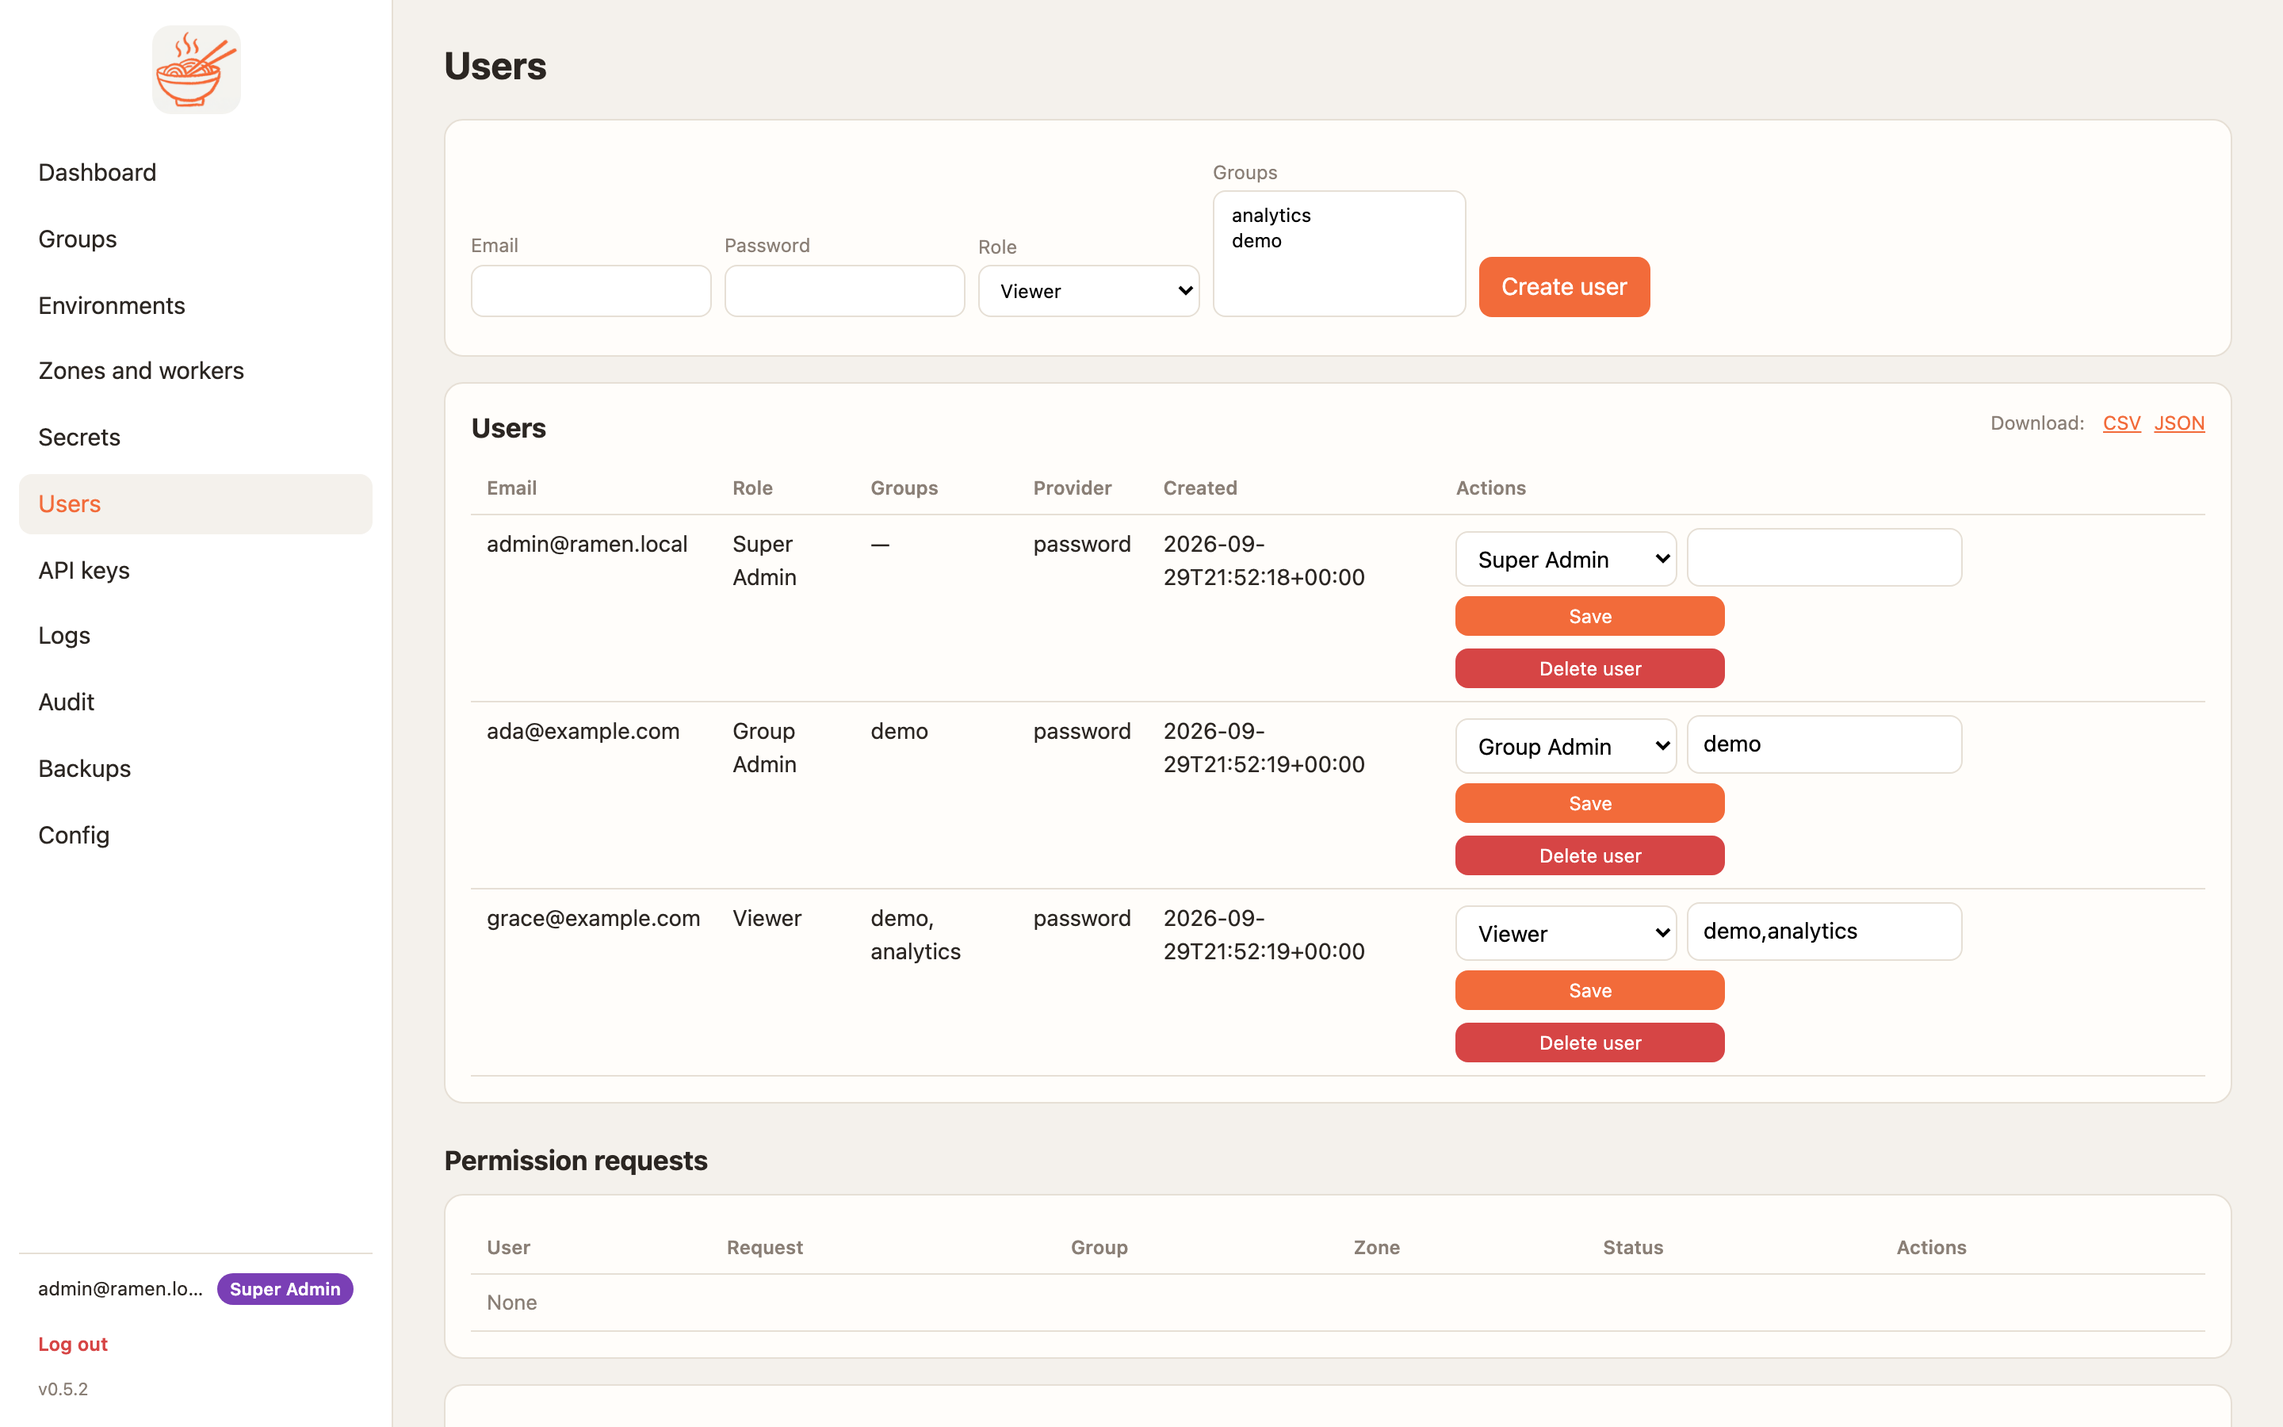
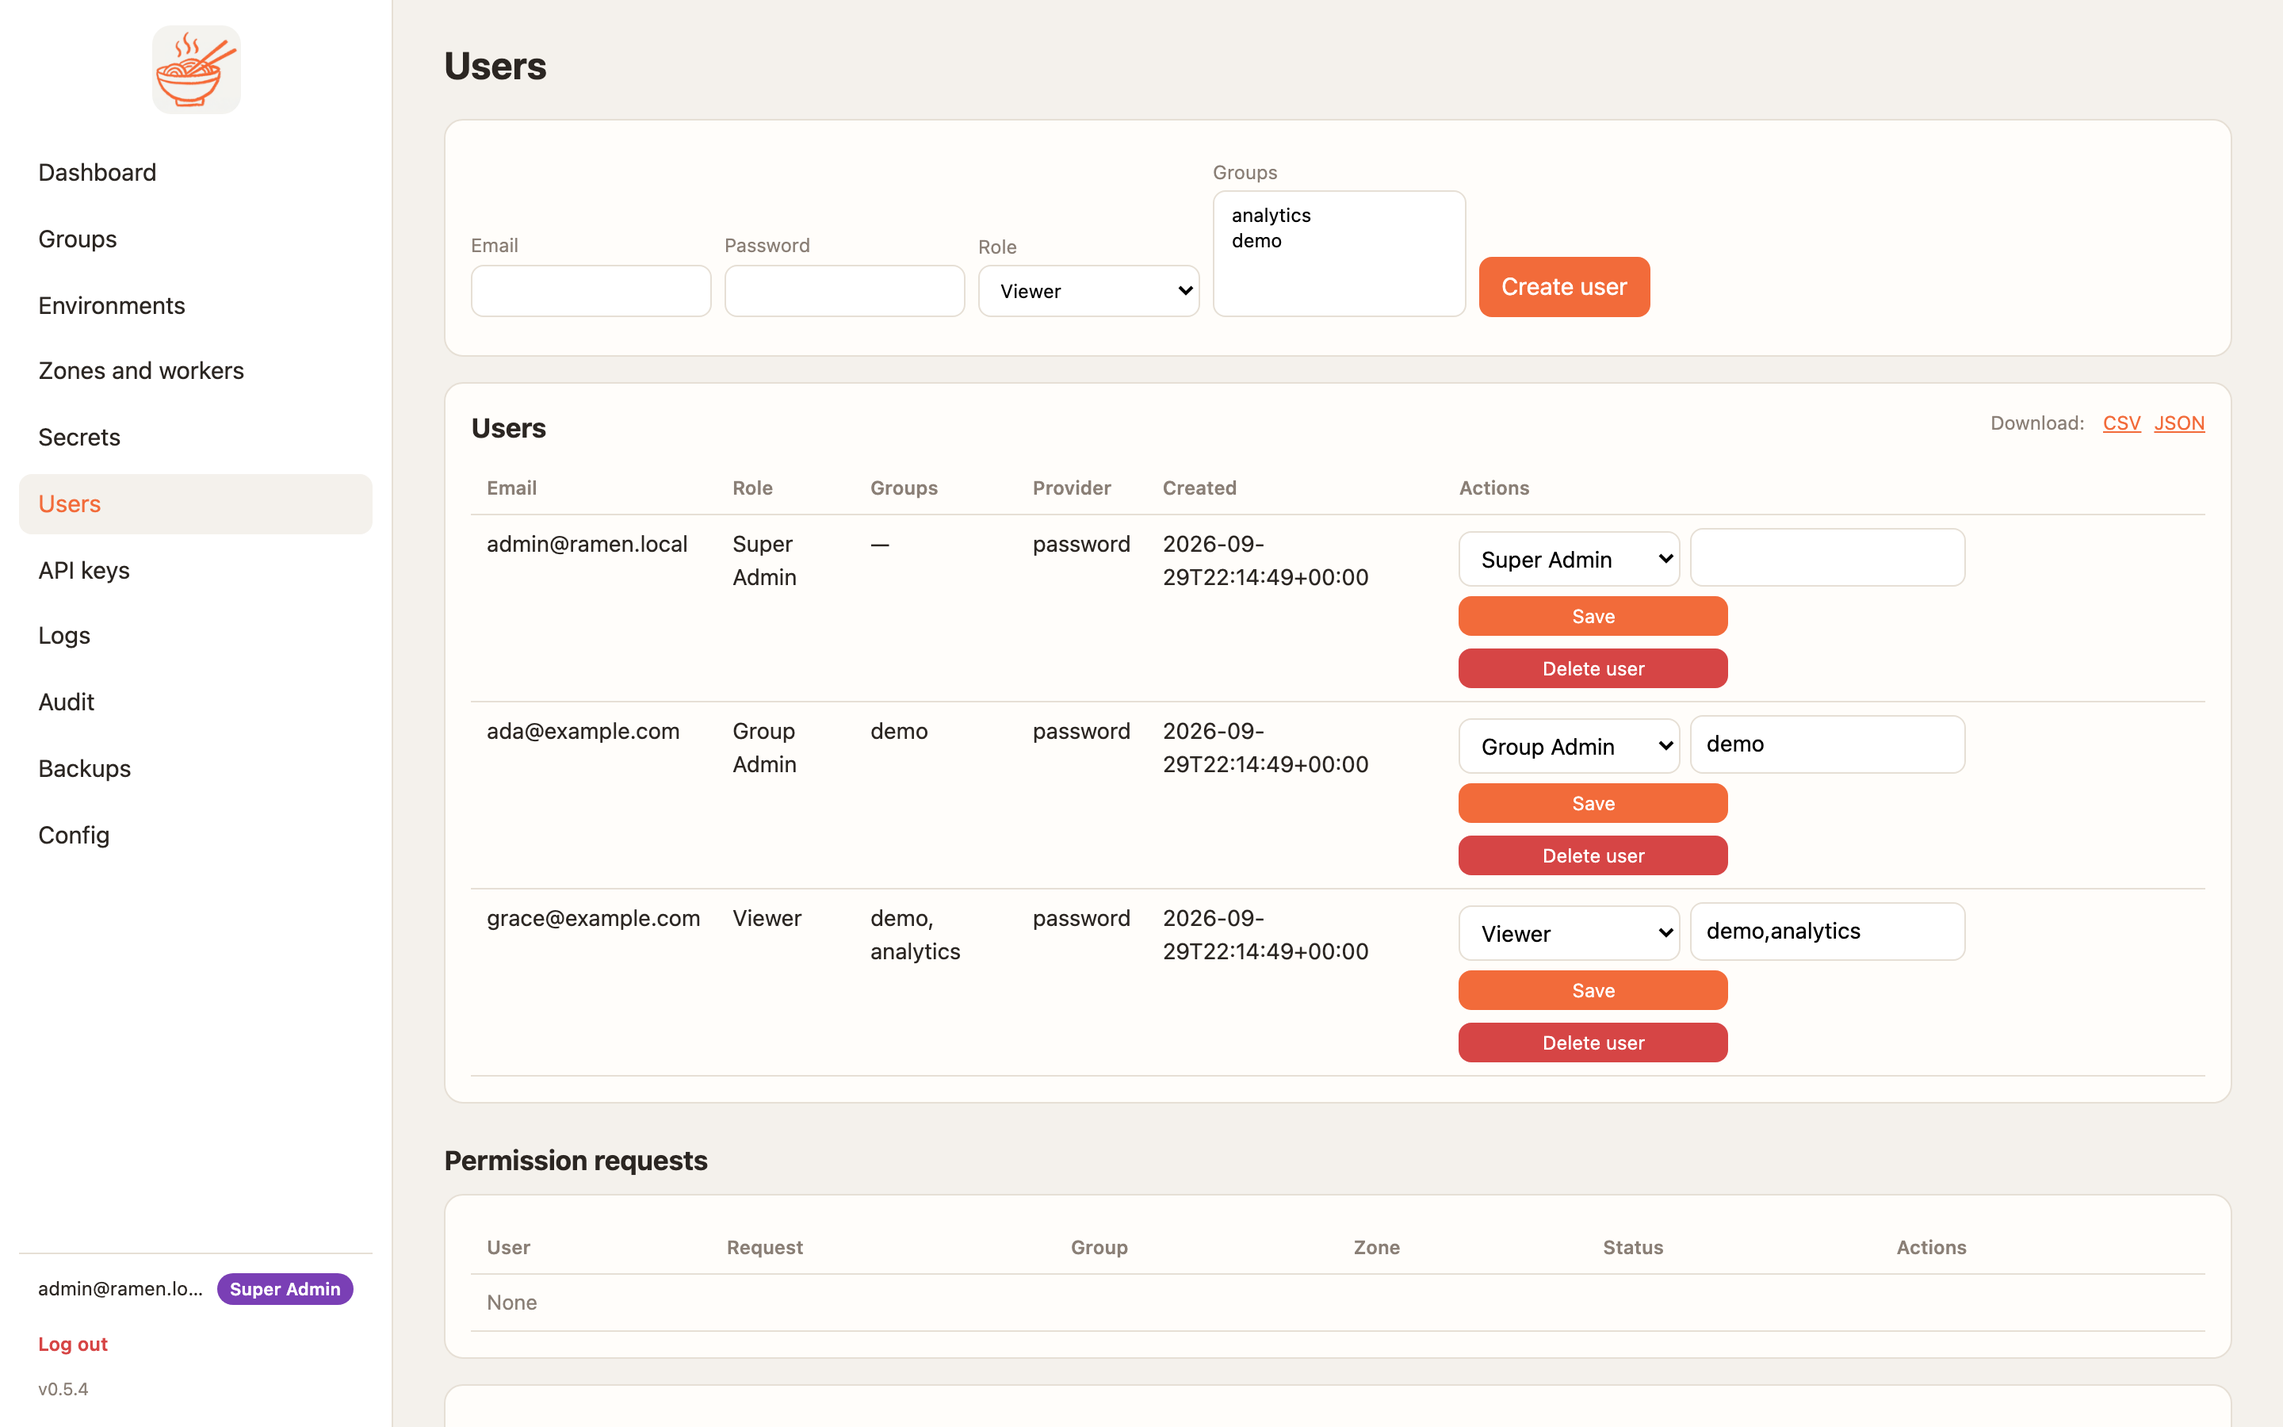
0.5.4: honest deploy pictures, aligned environment buttons, docs brought current
The docs' group and deploy-job screenshots showed a failed GitHub deploy: the rig deployed from GitHub on a laptop
with a stale keychain token. It now clones a local git copy of the demo group, so the seeded deploy ends ok with
packages per zone. Group page environment rows use the equal-width row-actions pattern for all three buttons
(test pinned). Architecture page at 0.5.x; every README path, external link and docs link checked; shots
re-captured (ui_contract 0.5.4).

diff --git a/console/src/ramen_console/templates/group.html b/console/src/ramen_console/templates/group.html
@@ -10,10 +10,10 @@
 <label>Name<input name="name" required></label><label>Ref<input name="ref" placeholder="{{ group.ref }}"></label><label>Zones (comma)<input name="zones" placeholder="{{ zones|map(attribute='id')|join(',') }}"></label><button>Add environment</button></form>{% endif %}
 <div class="card"><table><tr><th>Environment</th><th>Ref</th><th>Zones</th><th>Verbose</th><th>Last deploy</th><th></th></tr>
 {% for e in envs %}<tr><td>{{ e.name }}</td><td>{{ e.ref }}</td><td>{{ e.zones|join(', ') }}</td>
-<td>{% if can_admin %}<button class="sm ghost" hx-post="/api/v1/groups/{{ group.id }}/environments/{{ e.name }}/verbose" hx-ext="json" hx-vals='{"verbose": {{ 'false' if e.verbose else 'true' }}}' hx-swap="none">{{ 'Turn off' if e.verbose else 'Turn on' }}</button>{% else %}{{ 'On' if e.verbose else 'Off' }}{% endif %}</td>
+<td>{% if can_admin %}<div class="row-actions"><button class="act ghost" hx-post="/api/v1/groups/{{ group.id }}/environments/{{ e.name }}/verbose" hx-ext="json" hx-vals='{"verbose": {{ 'false' if e.verbose else 'true' }}}' hx-swap="none">{{ 'Verbose: off' if e.verbose else 'Verbose: on' }}</button></div>{% else %}{{ 'On' if e.verbose else 'Off' }}{% endif %}</td>
 <td>{% if e.last_deploy %}<span class="badge {{ e.last_deploy.status }}">{{ e.last_deploy.status }}</span> {{ e.last_deploy.at }}{% if e.last_deploy.error %}<div class="err">{{ e.last_deploy.error }}</div>{% endif %}{% endif %}</td>
-<td>{% if can_admin %}<button class="sm" hx-post="/api/v1/groups/{{ group.id }}/environments/{{ e.name }}/deploy" hx-ext="json" hx-vals='{"canary": true}' hx-target="#jobs" hx-swap="afterbegin">Deploy (canary)</button>
-<button class="sm danger" hx-delete="/api/v1/groups/{{ group.id }}/environments/{{ e.name }}" hx-confirm="Delete environment?" hx-swap="none">Delete</button>{% endif %}</td></tr>
+<td>{% if can_admin %}<div class="row-actions"><button class="act" hx-post="/api/v1/groups/{{ group.id }}/environments/{{ e.name }}/deploy" hx-ext="json" hx-vals='{"canary": true}' hx-target="#jobs" hx-swap="afterbegin">Deploy (canary)</button>
+<button class="act danger" hx-delete="/api/v1/groups/{{ group.id }}/environments/{{ e.name }}" hx-confirm="Delete environment?" hx-swap="none">Delete</button></div>{% endif %}</td></tr>
 {% else %}<tr><td colspan="6" class="muted">No environments</td></tr>{% endfor %}</table></div>
 
 <h2>Deploy jobs</h2><div id="jobs">{% for job in jobs %}{% include "partials/job.html" %}{% endfor %}{% if not jobs %}<p class="muted">No jobs yet</p>{% endif %}</div>

diff --git a/scripts/shots.py b/scripts/shots.py
@@ -79,7 +79,27 @@ def free(port: int) -> bool:
         return s.connect_ex(("127.0.0.1", port)) != 0
 
 
-def seed(client) -> dict:
+def local_demo_repo() -> str:
+    """A git repository of the demo group on disk, so the seeded deploy clones and succeeds without GitHub (a laptop
+    with a stale keychain token made the docs show "Authentication failed" on every deploy picture, 0.5.4)."""
+    import shutil
+
+    repo = Path("/tmp/ramen-shots/ramen-demo-mcp-group")
+    shutil.rmtree(repo, ignore_errors=True)
+    shutil.copytree(ROOT / "tests/fixtures/demo_group", repo, ignore=shutil.ignore_patterns("__pycache__"))
+    env = {
+        **os.environ,
+        "GIT_AUTHOR_NAME": "shots",
+        "GIT_AUTHOR_EMAIL": "shots@ramen.local",
+        "GIT_COMMITTER_NAME": "shots",
+        "GIT_COMMITTER_EMAIL": "shots@ramen.local",
+    }
+    for cmd in (["git", "init", "-q", "-b", "main"], ["git", "add", "-A"], ["git", "commit", "-q", "-m", "demo"]):
+        subprocess.run(cmd, cwd=repo, env=env, check=True, capture_output=True)
+    return f"file://{repo}"
+
+
+def seed(client, repo: str | None = None) -> dict:
     """Fictional material: two groups over two zones, users, keys, secrets, an image pin, a backup, a deploy.
     Returns the dynamic values page paths need (the OAuth client id for the consent page)."""
 
@@ -90,7 +110,7 @@ def seed(client) -> dict:
     client.post("/login", data={"email": EMAIL, "password": PASSWORD})
     for zone, region in (("a", "us-central1-a"), ("b", "us-central1-b")):
         client.post("/api/v1/zones", json={"name": zone, "provider": "gcp", "region": region}, headers=h())
-    repo = "https://github.com/bkraad47/ramen-demo-mcp-group"
+    repo = repo or "https://github.com/bkraad47/ramen-demo-mcp-group"
     client.post("/api/v1/groups", json={"name": "demo", "repo_url": repo, "ref": "main"}, headers=h())
     client.post("/api/v1/groups", json={"name": "analytics", "repo_url": repo, "ref": "main"}, headers=h())
     envs = "/api/v1/groups/{}/environments"
@@ -361,7 +381,7 @@ def main() -> int:
             print("console did not start", file=sys.stderr)
             return 1
         with httpx.Client(base_url=BASE, timeout=30, follow_redirects=False) as client:
-            values = seed(client)
+            values = seed(client, repo=local_demo_repo())
         taken = capture(ROOT / a.out, a.only, values=values)
         if not a.no_record and a.out == "docs/img":
             record(taken, a.contract)

diff --git a/console/tests/test_ui_v054.py b/console/tests/test_ui_v054.py
@@ -1,0 +1,21 @@
+"""0.5.4: the group page's environment rows use the equal-width row-actions pattern (0.4.2 W4) for all three
+buttons — the verbose toggle, Deploy (canary) and Delete were three sizes on two baselines."""
+
+import re
+
+from tests.test_api import app, client, cloud, demo, root  # noqa: F401 - pytest fixtures
+
+
+def test_environment_row_buttons_are_equal_width_and_on_one_line(demo):
+    page = demo.get("/groups/demo").text
+    rows = re.findall(
+        r"<tr>(.*?)</tr>", page[page.index("<h2>Environments</h2>") : page.index("<h2>Deploy jobs</h2>")], re.S
+    )
+    env_rows = [r for r in rows if "Deploy (canary)" in r]
+    assert env_rows, "the seeded group has environments"
+    for row in env_rows:
+        buttons = re.findall(r"<button[^>]*>", row)
+        assert len(buttons) == 3, buttons
+        for b in buttons:
+            assert 'class="act' in b or 'class="act' in b or " act " in b or ' act"' in b, b
+        assert row.count('class="row-actions"') == 2, "verbose toggle and the actions each sit in a row-actions cell"

diff --git a/docs/architecture/index.md b/docs/architecture/index.md
@@ -1,4 +1,4 @@
-# Architecture (current: v0.4.0)
+# Architecture (current: v0.5.4)
 
 Hierarchy: **Group → Environment → Zone → Worker** (decision D5). Transport: **Streamable HTTP at the edge, gRPC inside** (D31; gRPC since D19).
 
@@ -49,11 +49,12 @@ Hierarchy: **Group → Environment → Zone → Worker** (decision D5). Transpor
 | `config`, `backups` | auth toggles, SA rules; backup metadata | backups exclude secrets |
 
 ## Request paths
-- **MCP call**: client (bridge or gRPC) → LB matches `ramen-group` + `ramen-zone` metadata → node checks CIDR +
-  `rmk_` key (constant-time) → runtime (spawned on demand) → tool → JSON-RPC result in the reply body. Transport
-  failures are gRPC statuses (`UNAUTHENTICATED`, `PERMISSION_DENIED`, `RESOURCE_EXHAUSTED`); protocol failures
-  stay JSON-RPC errors. One log line per call (`ts, ip, group, method, name, status, grpc_code, ms, key_id`);
-  `RAMEN_VERBOSE=1` logs bodies.
+- **MCP call**: client (`POST /mcp` over Streamable HTTP, a gRPC client, or the stdio bridge) → LB matches
+  `ramen-group` + `ramen-zone` headers → node checks CIDR, Origin (HTTP), then the `rmk_` key or an OAuth token
+  (constant-time) → runtime (spawned on demand) → tool → JSON-RPC result in the reply body. Transport failures are
+  gRPC statuses (`UNAUTHENTICATED`, `PERMISSION_DENIED`, `RESOURCE_EXHAUSTED`) or their HTTP twins (401, 403,
+  429); protocol failures stay JSON-RPC errors. One log line per call (`ts, ip, transport, group, method, name,
+  status, grpc_code, ms, key_id`); `RAMEN_VERBOSE=1` logs bodies.
 - **Deploy**: console job → clone repo (token via git header) → upload bucket → write zone Secret/env file
   (`RAMEN_MCP_KEYS`, `RAMEN_SECRET_*`, `RAMEN_BLOCKED`, `RAMEN_ALLOWED_CIDRS`) → canary restart → `Health/Check`
   `SERVING` → `Admin/Reload` → `tools/list` smoke → stable restart. See [Canary](../wiki/canary.md).
@@ -77,9 +78,15 @@ Hierarchy: **Group → Environment → Zone → Worker** (decision D5). Transpor
 | D21 | v0.4.0: API keys carry an enforced client type — an `agent` key is accepted only by workers over gRPC, a `devops` key only by the console API. |
 | D22 | v0.4.0: the autoscale and rebalance stress test runs on a local kind cluster first, then once on a throwaway GKE project. |
 | D23 | v0.4.0: independent-client evidence is a real MCP client driven against the bridge, plus an editor configuration the user captures. |
+| D31 | v0.5.0: Streamable HTTP at the edge, gRPC inside — every worker serves `POST /mcp` on the gRPC port through the same guards; the bridge is the stdio-only compatibility path. |
+| D32 | v0.5.0: the HTTP handler lives in the node on the same port; never a separate edge service. |
+| D33 | v0.5.0: sessions are stateless signed ids (HMAC over nonce, expiry and the credential; per-group secret handed to every zone). |
+| D34 | v0.5.0: the console is the OAuth 2.1 authorization server — PKCE S256, pre-registered clients, no dynamic registration. |
+| D35 | v0.5.1: cloud runs get their permissions from a rule the human adds; the agent never writes its own permission file. |
 
 ## Version history
 [v0.1.0](v0.1.0.md) local core → [v0.2.0](v0.2.0.md) GCP → [v0.3.0](v0.3.0.md) AWS, auth & policy, docs →
-[v0.3.1](v0.3.1.md) gRPC transport → [v0.4.0](v0.4.0.md) console polish, docs, and proof.
+[v0.3.1](v0.3.1.md) gRPC transport → [v0.4.0](v0.4.0.md) console polish, docs, and proof → 0.5.x Streamable HTTP
+at the edge, OAuth, the GKE proof, the end-to-end and add-a-tool guides (this page; the changelog has each release).
 Tracker: [Versions](../versions.md). A drawing of one call end to end, and what protects every hop, is in
 [Transport and what secures each hop](../wiki/transport.md).

diff --git a/docs/versions.md b/docs/versions.md
@@ -4,7 +4,8 @@ Generated from [`CHANGELOG.md`](https://github.com/bkraad47/ramen/blob/main/CHAN
 
 | Version | Date | Theme | Links |
 |---|---|---|---|
-| `0.5.3` **(current)** | 2026-09-30 | how to add and deploy a tool | [release](https://github.com/bkraad47/ramen/releases/tag/v0.5.3) |
+| `0.5.4` **(current)** | — | honest deploy pictures, aligned environment buttons, docs brought current | [release](https://github.com/bkraad47/ramen/releases/tag/v0.5.4) |
+| `0.5.3` | 2026-09-30 | how to add and deploy a tool | [release](https://github.com/bkraad47/ramen/releases/tag/v0.5.3) |
 | `0.5.2` | 2026-09-30 | the mark is the logo | [release](https://github.com/bkraad47/ramen/releases/tag/v0.5.2) |
 | `0.5.1` | 2026-09-30 | the end-to-end guide, and 0.5.0 proven on GKE | [release](https://github.com/bkraad47/ramen/releases/tag/v0.5.1) |
 | `0.5.0` | 2026-09-29 | Streamable HTTP at the edge, gRPC inside | [release](https://github.com/bkraad47/ramen/releases/tag/v0.5.0) |
@@ -18,8 +19,11 @@ Generated from [`CHANGELOG.md`](https://github.com/bkraad47/ramen/blob/main/CHAN
 | `0.2.0` | 2026-09-28 | GCP | [release](https://github.com/bkraad47/ramen/releases/tag/v0.2.0) · [architecture](architecture/v0.2.0.md) |
 | `0.1.0` | 2026-09-27 | local core | [release](https://github.com/bkraad47/ramen/releases/tag/v0.1.0) · [architecture](architecture/v0.1.0.md) |
 
-## Unreleased
+## 0.5.4 — honest deploy pictures, aligned environment buttons, docs brought current
 
+- The docs' group and deploy-job screenshots showed a deploy that had **failed** ("Authentication failed for https://github.com/…"): the screenshot rig deployed the demo group from GitHub through a laptop with a stale keychain token. The rig now clones a local git copy of the demo group, so the seeded deploy succeeds and the pictures show a job that ends in `ok` with packages per zone.
+- Group page → Environments: the verbose toggle, **Deploy (canary)** and **Delete** were three sizes on two baselines; all three now use the equal-width `row-actions` pattern (the toggle reads `Verbose: on/off`). A test pins it.
+- Architecture page brought to 0.5.x (Streamable HTTP and OAuth in the call path, decisions D31–D35, version history); every README relative path, every external link and every docs link checked; screenshots re-captured (`ui_contract` 0.5.4).
 - Test-only: `log::tests::mirrors_to_file` counted every line of the process-global log file and flaked when another test emitted concurrently (it failed CI on the 0.5.3 commit and took the pipeline with it); it now counts only its own lines.
 
 ## 0.5.3 — how to add and deploy a tool

diff --git a/CHANGELOG.md b/CHANGELOG.md
@@ -2,6 +2,10 @@
 All notable changes. Versions follow semver; 0.x is pre-stable.
 
 ## [Unreleased]
+## [0.5.4] — honest deploy pictures, aligned environment buttons, docs brought current
+- The docs' group and deploy-job screenshots showed a deploy that had **failed** ("Authentication failed for https://github.com/…"): the screenshot rig deployed the demo group from GitHub through a laptop with a stale keychain token. The rig now clones a local git copy of the demo group, so the seeded deploy succeeds and the pictures show a job that ends in `ok` with packages per zone.
+- Group page → Environments: the verbose toggle, **Deploy (canary)** and **Delete** were three sizes on two baselines; all three now use the equal-width `row-actions` pattern (the toggle reads `Verbose: on/off`). A test pins it.
+- Architecture page brought to 0.5.x (Streamable HTTP and OAuth in the call path, decisions D31–D35, version history); every README relative path, every external link and every docs link checked; screenshots re-captured (`ui_contract` 0.5.4).
 - Test-only: `log::tests::mirrors_to_file` counted every line of the process-global log file and flaked when another test emitted concurrently (it failed CI on the 0.5.3 commit and took the pipeline with it); it now counts only its own lines.
 
 ## [0.5.3] — how to add and deploy a tool
